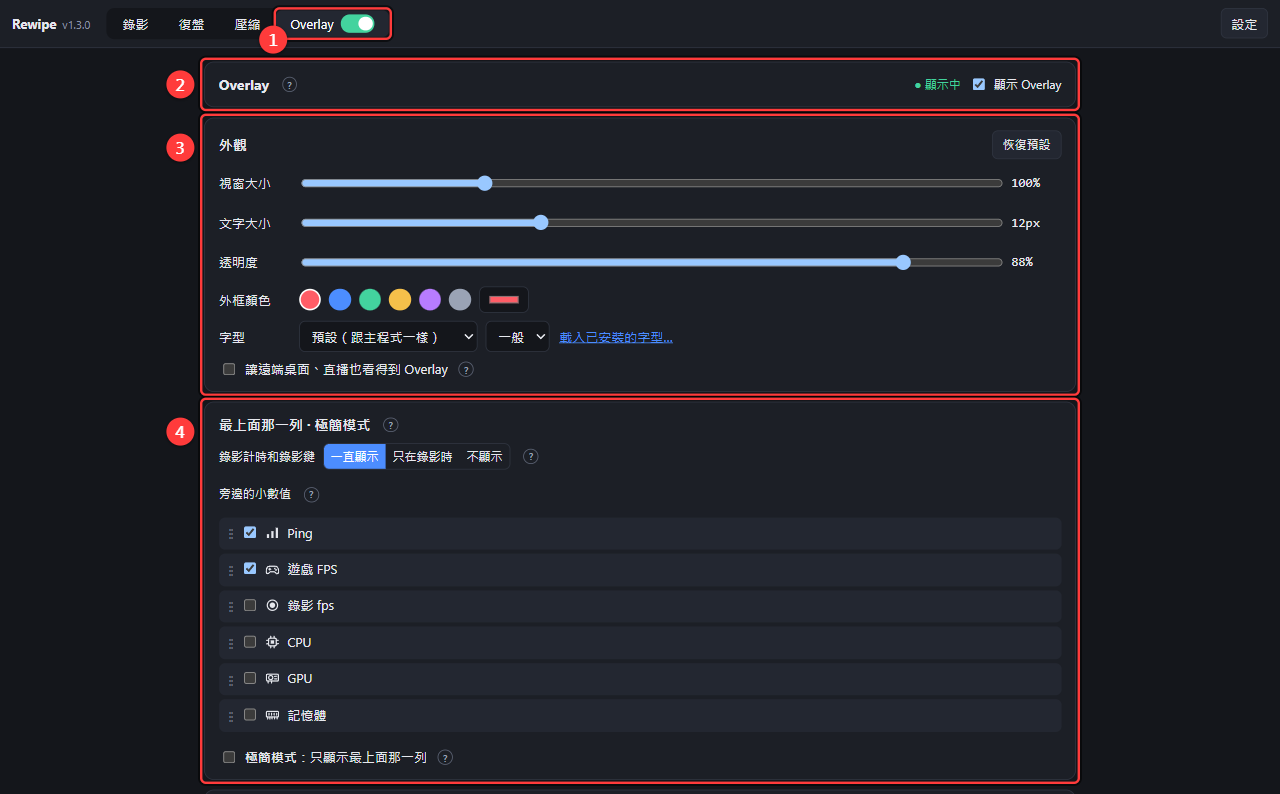
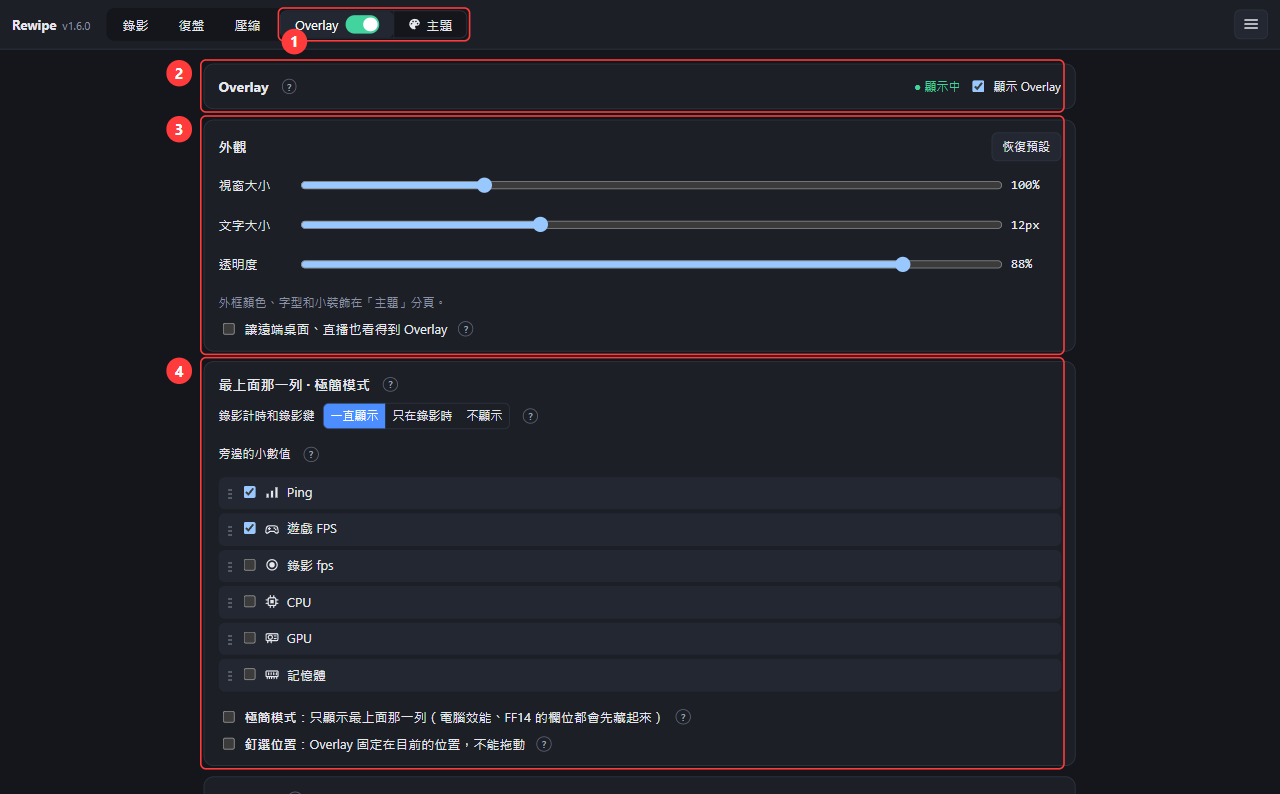
Manual for 1.6.0: 主題 chapter (Overlay themes, editor, sharing, 主介面外觀), ☰ menu replaces 設定; README: what the name means; INSTALL: settings folder is %APPDATA%\Rewipe; remove FEATURES.md

Changed region(s): [[0.0938, 0.0, 0.8438, 1.0], [0.1875, 0.7557, 0.25, 0.8161], [0.0, 0.0302, 0.0625, 0.0605]]

diff --git a/MANUAL.md b/MANUAL.md
@@ -1,14 +1,14 @@
 # Rewipe 操作手冊
 
-> **適用版本：Rewipe 1.3.4（2026-11-17）**
+> **適用版本：Rewipe 1.6.0（2026-11-17）**
 >
-> **這一版的說明有什麼改變**：新增 **Overlay 導覽**（見[功能導覽](#功能導覽)）。1.3.0 起「懸浮小窗」改名 **Overlay**，整章重寫；各頁的說明文字改成滑鼠指到「?」才顯示。完整的更新內容見 [Releases](https://github.com/LaneBlossom/rewipe/releases/tag/v1.3.1)。
+> **這一版的說明有什麼改變**：新增「[主題](#主題)」一章（Overlay 主題、主題編輯器、分享主題、主介面外觀）；右上角的「設定」改成 **☰ 選單**，原本的「設定」一章改成「[☰ 選單](#-選單)」。完整的更新內容見 [Releases](https://github.com/LaneBlossom/rewipe/releases/tag/v1.6.0)。
 >
 > 下載和安裝 → 看 📥 [安裝說明](INSTALL.md)。
 
 Rewipe 是 FF14 高難副本的**錄影＋復盤**工具：錄下遊戲畫面，再對照 ACT 或 FFLogs 的紀錄，一眼看出每次 pull 誰在哪個機制倒下、吃了什麼 debuff，點一下就跳到影片裡那一刻。其他遊戲也能錄。
 
-上方有四個分頁：**錄影**、**復盤**、**壓縮**、**Overlay**，右上角是**設定**。下面每張圖的紅框編號，對應圖下方的說明。畫面上的「**?**」：滑鼠指過去會顯示那一項的說明。
+上方的分頁：**錄影**、**復盤**、**壓縮**，以及框在一起的 **Overlay** 和 **主題**；右上角的 **☰** 是選單（金鑰、主介面外觀、說明、更新…）。下面每張圖的紅框編號，對應圖下方的說明。畫面上的「**?**」：滑鼠指過去會顯示那一項的說明。
 
 > 截圖中的玩家名稱已換成「玩家A～H」，遊戲畫面也做了模糊處理。
 
@@ -22,6 +22,11 @@ Rewipe 是 FF14 高難副本的**錄影＋復盤**工具：錄下遊戲畫面，
   - [跟 ACT 同步錄影](#跟-act-同步錄影)
   - [效能監控與效能測試](#效能監控與效能測試)
 - [Overlay](#overlay)
+- [主題](#主題)
+  - [Overlay 主題](#overlay-主題)
+  - [主題編輯器](#主題編輯器)
+  - [分享主題](#分享主題)
+  - [主介面外觀](#主介面外觀)
 - [復盤](#復盤)
   - [畫面總覽](#畫面總覽)
   - [播放清單：一次看很多個影片](#播放清單一次看很多個影片)
@@ -30,7 +35,7 @@ Rewipe 是 FF14 高難副本的**錄影＋復盤**工具：錄下遊戲畫面，
   - [用 FFLogs 復盤](#用-fflogs-復盤)
 - [剪輯：片段、GIF、截圖、分段](#剪輯片段gif截圖分段)
 - [壓縮](#壓縮)
-- [設定](#設定)
+- [☰ 選單](#-選單)
 - [常用快捷鍵](#常用快捷鍵)
 
 ---
@@ -56,13 +61,13 @@ Rewipe 是 FF14 高難副本的**錄影＋復盤**工具：錄下遊戲畫面，
 **4. 第一次使用建議也做**
 
 - 「錄影」頁最下面按「**⚡ 跑效能測試**」，讓它建議適合這台電腦的畫質。
-- 要用 FFLogs 復盤的話，到「**設定**」填 FFLogs API 金鑰。
+- 要用 FFLogs 復盤的話，到右上角 **☰ →「FFLogs API 金鑰」**填好。
 
 ---
 
 ## 功能導覽
 
-第一次打開 Rewipe 時會自動出現，之後可以在「**設定 → 🧭 功能導覽**」重看。
+第一次打開 Rewipe 時會自動出現，之後可以在右上角「**☰ → 🧭 功能導覽**」重看。
 
 ![功能導覽](docs/img/tour.png)
 
@@ -70,7 +75,7 @@ Rewipe 是 FF14 高難副本的**錄影＋復盤**工具：錄下遊戲畫面，
 - 依序介紹：三大功能 → 存檔位置 → 錄什麼 → 畫質 → 開始錄影 → 跟 ACT 自動錄 → Overlay → 復盤 → 剪輯 → 壓縮。
 - 還沒載入影片和 Logs 的話，復盤的部分會先放入**示範資料**，示範點一場 pull、點一個死亡事件之後影片會跳到哪裡。導覽結束後示範資料會清掉。
 
-**Overlay 導覽**：從 1.3.1 以前的版本更新上來時，看完「更新內容」後會自動出現一次，一步一步介紹 [Overlay](#overlay) 分頁：外觀、最上面那一列和極簡模式、電腦效能（Ping、遊戲 FPS）、FF14 的死因、DPS 和團減。之後可以在「**設定 → 🧭 Overlay 導覽**」重看。
+**Overlay 導覽**：從 1.3.1 以前的版本更新上來時，看完「更新內容」後會自動出現一次，一步一步介紹 [Overlay](#overlay) 分頁：外觀、最上面那一列和極簡模式、電腦效能（Ping、遊戲 FPS）、FF14 的死因、DPS 和團減。之後可以在右上角「**☰ → 🧭 Overlay 導覽**」重看。
 
 ---
 
@@ -218,9 +223,9 @@ Rewipe 是 FF14 高難副本的**錄影＋復盤**工具：錄下遊戲畫面，
 
 ![Overlay 分頁（上半）](docs/img/overlay-tab-1.png)
 
-1. **分頁標籤**：上面的開關直接開 / 關 Overlay（綠色 = 開著），點文字進到這個分頁。關著的時候也可以先調好，改了馬上生效。
+1. **分頁標籤**：上面的開關直接開 / 關 Overlay（綠色 = 開著），點文字進到這個分頁。關著的時候也可以先調好，改了馬上生效。旁邊框在一起的「**主題**」是 Overlay 的外觀主題，見[主題](#主題)。
 2. **顯示 Overlay**：同一個開關。
-3. **外觀**：視窗大小、文字大小、透明度、外框顏色、**字型和粗細**（「載入已安裝的字型…」可以選電腦裡的其他字型）。「恢復預設」一鍵改回來。
+3. **外觀**：視窗大小、文字大小、透明度。「恢復預設」一鍵改回來。外框顏色、字型和小裝飾在「[主題](#主題)」分頁。
    - **讓遠端桌面、直播也看得到 Overlay**：平常 Overlay 對所有擷取畫面的程式隱藏，才不會被錄進影片。打開後 Chrome 遠端桌面、Discord 直播看得到；錄「整個螢幕」或「框選範圍」也會錄到，錄「遊戲視窗」不會。
 4. **最上面那一列 · 極簡模式**：
    - **錄影計時和錄影鍵**：一直顯示 / 只在錄影時 / 不顯示。只想監控的話選「不顯示」，快捷鍵照樣能錄影。
@@ -255,6 +260,72 @@ Rewipe 是 FF14 高難副本的**錄影＋復盤**工具：錄下遊戲畫面，
 
 ---
 
+## 主題
+
+主題只改**外觀**：底色、外框、文字顏色、字體和小裝飾。Overlay 的內容、版面和數字都不變。
+
+### Overlay 主題
+
+上方框在一起的「Overlay｜**主題**」，點「主題」進到這個分頁。
+
+![主題分頁](docs/img/theme-tab.png)
+
+1. **主題分頁**：跟 Overlay 分頁放在同一組，這裡的主題只套用在 Overlay。
+2. **主題編輯器**：以目前的主題為底，做一個自己的主題（內建主題會先複製一份），見[主題編輯器](#主題編輯器)。旁邊的「**匯入主題…**」可以裝別人分享的主題，見[分享主題](#分享主題)。
+3. **主題列表**：點一下就套用，Overlay 馬上換。滑鼠移到主題上，右邊會先預覽。
+   - 15 個內建主題，第一個是招牌主題「**夜櫻**」。標著「主介面」的主題，連 Rewipe 的主視窗也會一起換樣子（見[主介面外觀](#主介面外觀)）。
+   - 自己做的、別人分享的主題列在「**我的主題**」。
+4. **預覽**：用示範資料預覽目前（或滑鼠指著）的主題。右上可以切換深色 / 淺色場景，看看在亮的遊戲畫面上清不清楚。
+5. **簡易調整**：只改目前這個主題的外框顏色、背景顏色、字型和粗細，每個主題各自記得。「**恢復預設**」改回主題原本的樣子。
+   - 背景跟文字顏色太接近時會出現提醒，可以勾「**改成高對比文字**」。
+   - 「**夜櫻**」在這裡還有兩個選項：
+     - **另外顯示原本的錄影紅點**：夜櫻用左上角櫻花的花心當錄影燈（紅 = 錄影中、灰 = 沒在錄、橘 = 掉格）。
+     - **裝飾動畫**：櫻花瓣在文字後面慢慢飄。戰鬥中會自動暫停；開「低負載模式」或錄影掉格時會自動停止。
+
+> 改到看不清楚的話，在 Overlay 上按右鍵 →「**恢復預設主題**」就能救回來。
+
+### 主題編輯器
+
+按「**主題編輯器**」後，上面的主題列表會自動收起來（點那一行可以再展開），下面換成編輯器。改了會馬上存檔，右邊的預覽和 Overlay 也會馬上換。
+
+![主題編輯器](docs/img/theme-editor.png)
+
+1. **主題列表（收起來）**：顯示目前用的是哪個主題，點一下展開。
+2. **編輯器標題**：「完成」離開編輯器，回到簡易調整。
+3. **複製預覽圖**（直接貼到 Discord）、**匯出…**（存成主題檔分享給朋友）、**刪除這個主題**。
+4. **各區設定**，點標題展開：
+   - **名稱和顏色**：主題名稱、作者，每一種顏色（底色、外框、文字、強調色、正常 / 注意 / 警告、長條圖…）、底色不透明度、是不是淺色底。
+   - **外框**：粗細、圓角、虛線、切角。
+   - **文字和數字**：標題和內文的字體，數字的字體和大小（數字一律等寬，才會對齊）。
+   - **長條圖**：細線、分格、像素方塊等樣式。
+   - **圖片**：可以放**內建圖案**，也可以**上傳自己的圖片**。圖片分「前景」（蓋在文字上）和「背景」（在文字後面），清單裡可以調整上下順序。白底、單色底的圖上傳後按「**去背…**」就能去掉背景；背景很雜的圖或照片，請先用其他工具去背再上傳。
+5. **預覽**：直接**點預覽裡的圖片**就能選到它，拖動移動、拉右下角的方塊縮放、拉上方的圓點旋轉。
+
+### 分享主題
+
+- **分享出去**：在主題編輯器按「**匯出…**」，存成一個 `.rewipe-theme.json` 主題檔（裡面附一張預覽圖），傳給朋友就好。只想給大家看長什麼樣子的話，按「**複製預覽圖**」直接貼到 Discord。
+- **裝別人的主題**：把主題檔**拖進 Rewipe 視窗**，或在主題分頁按「**匯入主題…**」。會先顯示預覽，確認後才安裝，裝好會出現在「我的主題」。
+- 主題檔只有顏色、字體和圖片，不會包含程式，也不會改到你的其他設定。
+
+### 主介面外觀
+
+Rewipe 主視窗（錄影、復盤、壓縮這些頁面）的樣子。在右上角 **☰ →「🎨 主介面外觀…」**。
+
+![主介面外觀](docs/img/menu-look.png)
+
+1. **主題**：勾「**跟 Overlay 用同一個主題**」，主介面就跟著 Overlay 的主題換（只有標著「主介面」的主題才有主介面的樣式，其他主題主介面維持預設）。不勾的話可以另外選一個。
+2. **文字大小**：80–150%，整個視窗（字和按鈕）一起放大縮小，版面不會亂。預設主題也能用。
+3. **字體**：楷書、點陣字、手寫字小的時候比較難讀，可以選：
+   - **主題字體**：全部用主題的字體。
+   - **只有標題**：只有 Rewipe 標題和卡片標題用主題的字體。
+   - **一般字體**：完全不換字體，只換顏色和背景。
+
+主介面套用「夜櫻」的樣子，背景有淡淡的浮水印：
+
+![主介面套用夜櫻](docs/img/app-theme.png)
+
+---
+
 ## 復盤
 
 ### 畫面總覽
@@ -267,7 +338,7 @@ Rewipe 是 FF14 高難副本的**錄影＋復盤**工具：錄下遊戲畫面，
    - **開啟錄影檔**：選要看的影片，可以一次選很多個。也可以直接把影片（一個或很多個）拖進視窗。
    - **開啟資料夾**：資料夾裡的影片全部放進播放清單。
    - **載入 ACT log**：選 ACT 的 `Network_xxxxx.log`。也可以直接拖進來。
-   - **FFLogs 網址**：貼上 FFLogs 報告網址後按「載入」，需要先到「設定」填金鑰。
+   - **FFLogs 網址**：貼上 FFLogs 報告網址後按「載入」，需要先到右上角 ☰ →「FFLogs API 金鑰」填好。
    - 右邊整欄的左邊界可以**左右拖動**調整寬度，pull 清單下面的線可以**上下拖動**調整高度，點兩下恢復預設。
    - 不管錄影頁現在設定成錄哪個遊戲、有沒有開 FF14 附加功能，復盤頁都可以載入 ACT log 和 FFLogs。
 2. **影片播放器**：逐格、±5 秒、0.1x～2x 慢動作，看清楚每一個機制。
@@ -327,7 +398,7 @@ Rewipe 是 FF14 高難副本的**錄影＋復盤**工具：錄下遊戲畫面，
 
 沒有 ACT log 也可以用 FFLogs：在上方貼上 FFLogs 報告網址，按「載入」就好。
 
-- 第一次使用要先到「設定」填自己的 FFLogs API 金鑰（免費，約 2 分鐘），見[設定](#設定)。
+- 第一次使用要先到右上角 ☰ →「FFLogs API 金鑰」填自己的金鑰（免費，約 2 分鐘），見[☰ 選單](#-選單)。
 - 載入後可以選「**我是誰**」，就能看到自己的技能。
 - 招式名稱會顯示遊戲內的官方繁中，旁邊附上英文。
 
@@ -376,26 +447,30 @@ Rewipe 是 FF14 高難副本的**錄影＋復盤**工具：錄下遊戲畫面，
 
 ---
 
-## 設定
+## ☰ 選單
 
-右上角的「**設定**」。
+右上角的 **☰**（三條線）。點選單外面或按 `Esc` 會關掉。
 
-![設定](docs/img/settings.png)
+![☰ 選單](docs/img/menu.png)
 
-1. **FFLogs API 金鑰**：
-   - 照畫面上的 4 個步驟，到 FFLogs 網站申請自己的 Client ID 和 Client Secret 貼上。建立時**不要勾 Public Client**，不然不會有 Client Secret。
-   - 金鑰只存在你自己的電腦上，並用 Windows 加密保存。
-   - 只用 ACT log 的話可以跳過。
-2. **遊戲資料**：直接從你電腦裡的 FF14 讀取招式和副本的**官方繁中名稱**，遊戲更新後也會自動重新讀取。
-3. **關於 / 更新**：
-   - 查看版本、更新內容。目前的版本號也會顯示在視窗標題和左上角的「Rewipe」旁邊。
-   - 「檢查更新」可以手動檢查；開啟時也會自動檢查。
-   - 有新版時按「立即更新」就好（只有安裝版可以一鍵更新）。
-4. **說明**：
-   - **🧭 功能導覽**：重看第一次開啟時的導覽。
-   - **🧭 Overlay 導覽**：重看 Overlay 分頁的導覽。
-   - **📖 操作手冊**：開啟這份手冊（會開符合你目前版本的那一份）。
-   - **📥 安裝與更新說明**：下載、安裝、更新、防毒例外、解除安裝。
+- **🎨 主介面外觀…**：主介面的主題、文字大小、字體，見[主介面外觀](#主介面外觀)。
+- **🔑 FFLogs API 金鑰…**：
+
+  ![FFLogs API 金鑰](docs/img/menu-key.png)
+
+  - 照畫面上的 4 個步驟，到 FFLogs 網站申請自己的 Client ID 和 Client Secret 貼上。建立時**不要勾 Public Client**，不然不會有 Client Secret。
+  - 金鑰只存在你自己的電腦上，並用 Windows 加密保存。
+  - 只用 ACT log 的話可以跳過。
+- **🗂 遊戲資料（官方繁中名稱）…**：直接從你電腦裡的 FF14 讀取招式和副本的**官方繁中名稱**，遊戲更新後也會自動重新讀取。
+- **🧭 功能導覽**：重看第一次開啟時的導覽。
+- **🧭 Overlay 導覽**：重看 Overlay 分頁的導覽。
+- **📖 操作手冊 ↗**：開啟這份手冊（會開符合你目前版本的那一份）。
+- **📥 安裝與更新說明 ↗**：下載、安裝、更新、防毒例外、解除安裝。
+- **📝 更新內容**：每一版改了什麼。
+- **ℹ 關於與更新…**：
+  - 查看版本和作者。目前的版本號也會顯示在視窗標題和左上角的「Rewipe」旁邊。
+  - 「檢查更新」可以手動檢查；開啟時也會自動檢查（可以關掉）。
+  - 有新版時按「立即更新」就好（只有安裝版可以一鍵更新）。
 
 ---
 

diff --git a/INSTALL.md b/INSTALL.md
@@ -90,7 +90,7 @@
 - **安裝版**：每次開啟時會自動檢查，有新版就會跳出提示，按「**立即更新**」就好，不用再回網站下載。更新完會自動重新開啟。
 - **裝在 Program Files 的話**（安裝時選了「為所有使用者安裝」，或改到 `C:Program Files` 底下）：按更新後 Windows 會跳出「**是否允許此 App 對你的裝置進行變更**」，請按「**是**」，Rewipe 才會關閉並更新。從 1.2.10 開始，這個確認視窗會跳在最前面；**從 1.2.9 或更早的版本更新時**，確認視窗可能只在工作列閃爍（盾牌圖示），要自己點開按「是」。一直更新不了的話，也可以直接到 [Releases](https://github.com/LaneBlossom/rewipe/releases/latest) 下載安裝檔，裝在原本的位置。
 - **免安裝版**：只會提示有新版並打開下載頁。到 [Releases](https://github.com/LaneBlossom/rewipe/releases/latest) 下載新的 `Rewipe-Portable-x.x.x.exe`，直接取代舊的檔案就好。
-- **設定會保留**：不管是哪一版、更新幾次，設定（錄影設定、FFLogs 金鑰、ACT 資料夾等）都存在 `%APPDATA%\FFXIV Rewipe`，不會因為更新而不見。
+- **設定會保留**：不管是哪一版、更新幾次，設定（錄影設定、FFLogs 金鑰、ACT 資料夾等）都存在 `%APPDATA%\Rewipe`，不會因為更新而不見。
 - **從免安裝版改用安裝版**：直接安裝就好。兩種版本用的是同一個設定資料夾，設定會直接沿用；舊的免安裝版 exe 可以刪掉。
 
 ## 5. 解除安裝
@@ -99,7 +99,7 @@
 2. 找到 **Rewipe** → 按「**解除安裝**」。
 
 - **錄好的影片不會被刪**：影片存在你自己選的資料夾（預設是「影片」資料夾裡的 `Rewipe`），要不要留由你決定。
-- **設定也會留著**：重新安裝時會直接沿用。想完全清乾淨的話，手動刪掉這個資料夾：在檔案總管的網址列輸入 `%APPDATA%\FFXIV Rewipe` 按 Enter，把整個資料夾刪掉。
+- **設定也會留著**：重新安裝時會直接沿用。想完全清乾淨的話，手動刪掉這個資料夾：在檔案總管的網址列輸入 `%APPDATA%\Rewipe` 按 Enter，把整個資料夾刪掉。
 - 免安裝版沒有安裝，直接刪掉 exe 就好（設定資料夾同上）。
 
 ## 6. 常見問題
@@ -114,7 +114,7 @@
 不行，程式同時只會開一個，再點一次只會把原本的視窗叫出來。
 
 **更新後設定不見了？**
-設定存在 `%APPDATA%\FFXIV Rewipe`，正常情況下不會因為更新不見。如果還是遇到，請回報給作者。
+設定存在 `%APPDATA%\Rewipe`，正常情況下不會因為更新不見。如果還是遇到，請回報給作者。
 
 ---
 
